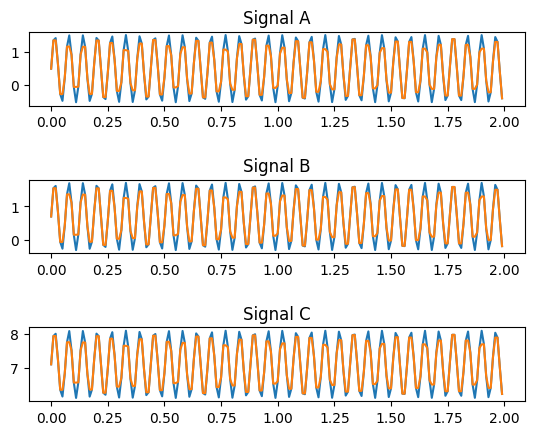
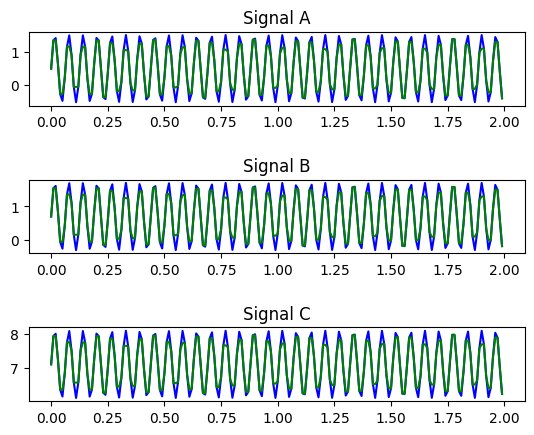
Added colors to a_3

Changed region(s): [[0.0899, 0.7471, 0.9588, 0.9264], [0.0899, 0.0598, 0.9588, 0.2391], [0.0899, 0.4184, 0.9588, 0.5678]]

diff --git a/A/a_3.py b/A/a_3.py
@@ -29,8 +29,8 @@ def median_filter(signals, samples, sampling_frequency, sampling_time, verbose=F
 
     fig, AX = plt.subplots(len(signals))
     for i in range(len(signals)):
-        AX[i].plot(t, signals[i])
-        AX[i].plot(t, Y[i])
+        AX[i].plot(t, signals[i], '-b')
+        AX[i].plot(t, Y[i], '-g')
         if len(labels):
             AX[i].set_title(labels[i])
 
@@ -46,4 +46,4 @@ sB = loadmat('sin0.mat')['signal']
 sC = loadmat('sin20.mat')['signal']
 
 signals = [np.reshape(sA, sA.size), np.reshape(sB, sB.size), np.reshape(sC, sC.size)]
-median_filter(signals, 3, 200, 2, verbose=True, labels=('Signal A', 'Signal B', 'Signal C'))
+median_filter(signals, 7, 200, 2, verbose=True, labels=('Signal A', 'Signal B', 'Signal C'))
